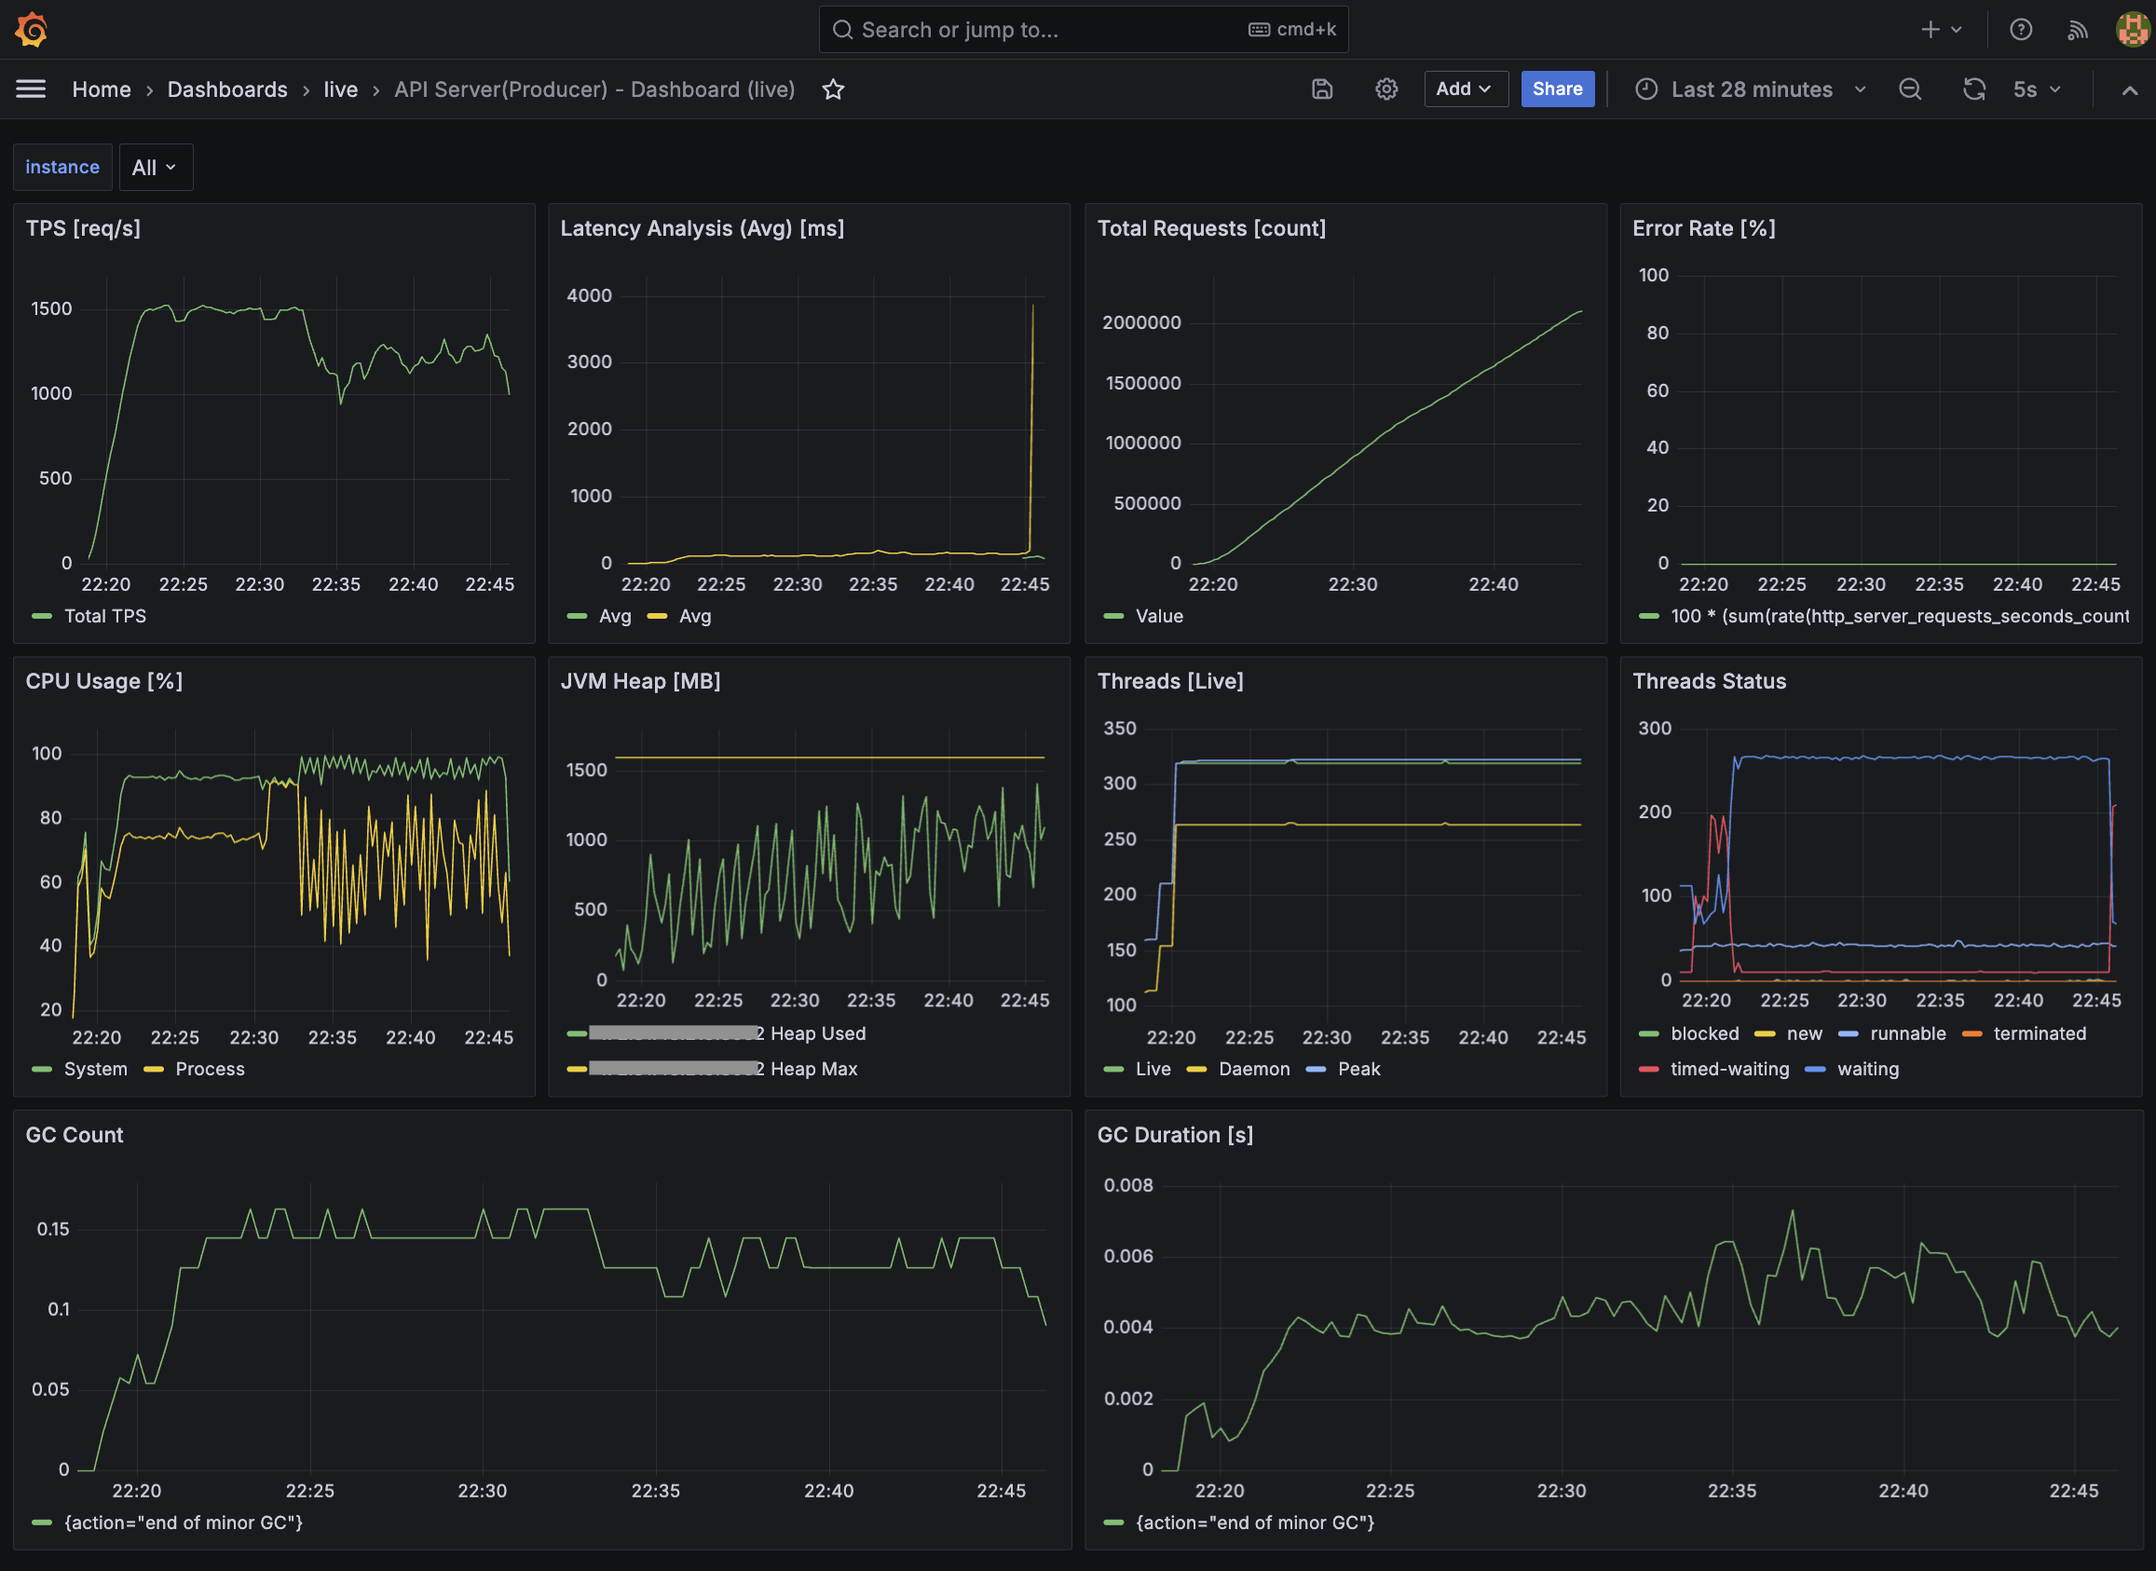
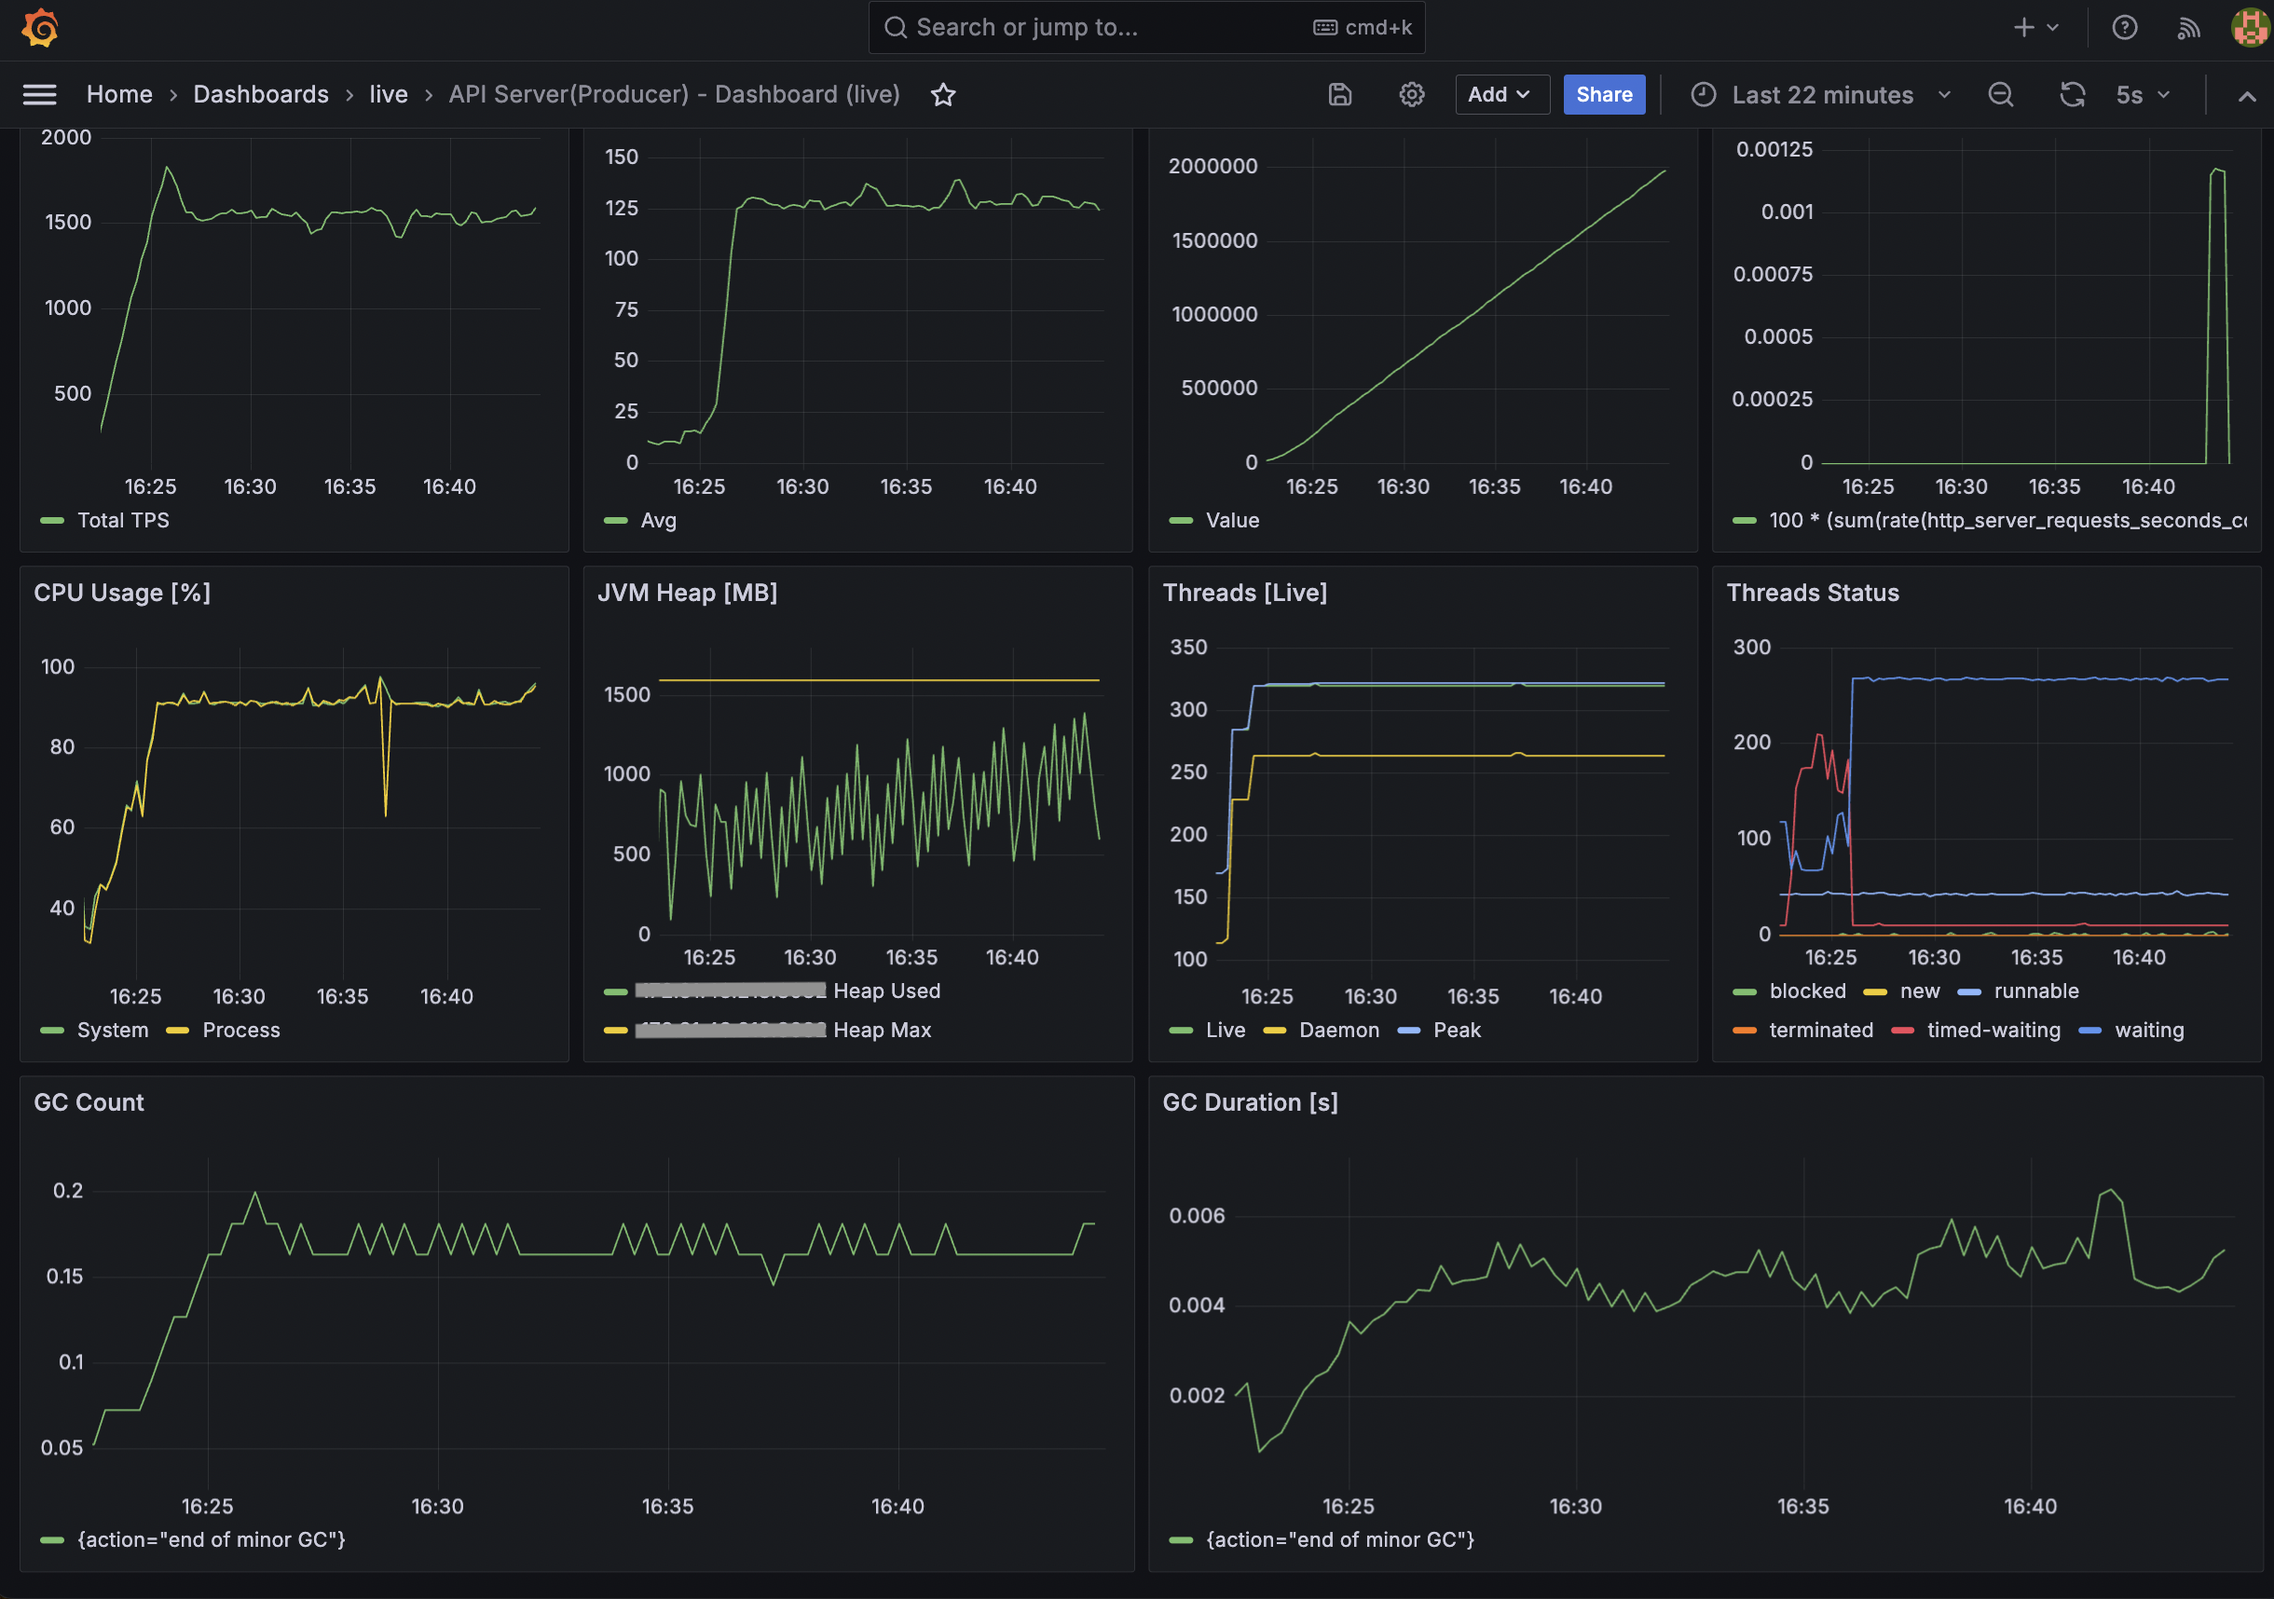
docs: README.md 및 부하 테스트 관련 내용 업데이트

diff --git a/docs/loadtest/coupon-issue-loadtest-result.md b/docs/loadtest/coupon-issue-loadtest-result.md
@@ -1,8 +1,10 @@
 # 쿠폰 발급 시스템 - 부하 테스트 결과 보고서
 
-대규모 트래픽 상황에서 쿠폰 발급 시스템의 안정성과 성능을 검증하고 최적화한 과정을 기술한다.
+대규모 트래픽과 같은 상황에서 쿠폰 발급 시스템의 안정성과 성능을 검증하고 최적화한 과정을 기술한다.
 
-최종 성과: (최대) 1,500 TPS (안정성 최우선 설정 기준)
+최종 성과: (안정성 최우선 설정 기준)
+- (최대) 1,800 TPS
+- (평균) 1,500 TPS
 
 > 핵심 달성
 
@@ -223,6 +225,8 @@
     - connectTimeout: 3000
     - timeout: 1000
 
+![](/docs/loadtest/image/coupon-issue-redis-config.png)
+
 - Rate Limiter 값 수정: 1,300 -> 2,700
 
 - 모니터링 지표 개선
@@ -286,35 +290,55 @@
 
 ![](/docs/loadtest/image/coupon-issue-load-test-k6-result-3-1.png)
 
-> API Server 결과 - 최대 TPS: 1,500
+약 210만 건의 요청 중 실패 없이 100% 성공했다.
+
+설정한 임계치(5s)를 소폭 상회하는 결과는 API 서버의 CPU 포화로 인한 병목임을 확인했다.
+
+> API Server 결과 - 최대 TPS: 1,830, 평균: 1,550
 
 ![](/docs/loadtest/image/coupon-issue-load-test-api-server-3-1.png)
 
-> Consumer Server 결과 - 최대 TPS: 1,500
+> Consumer Server 결과 - 최대 TPS: 1,820, 평균: 1,550
 
-![](/docs/loadtest/image/coupon-issue-load-test-consumer-server-3-1.png)
+![](/docs/loadtest/image/coupon-issue-load-test-consumer-server-3-1-1.png)
 
-API 서버와 비슷한 TPS로 Consumer Lag 증가에 대한 문제는 해결되었다.
+![](/docs/loadtest/image/coupon-issue-load-test-consumer-server-3-1-2.png)
+
+대량의 메시지가 인입되는 순간 일시적인 지연(Lag)이 발생했으나, Consumer 서버의 TPS가 API 서버의 TPS를 따라잡으면서 Consumer Lag이 0에 수렴하는 안정적인 구조를 확인했다.
 
 > Infra Server - Monitoring
 
 ![](/docs/loadtest/image/coupon-issue-load-test-infra-server-monitoring-3-1.png)
 
-> Database Server - Monitoring
+Redis Throughput이 약 20,000 ops/sec를 안정적으로 유지하며 중복 체크 및 선착순 로직의 병목을 해소했다.
 
-![](/docs/loadtest/image/coupon-issue-load-test-db-server-monitoring-3-1-1.png)
+> Database Server(MySQL) - Monitoring
 
-![](/docs/loadtest/image/coupon-issue-load-test-db-server-monitoring-3-1-2.png)
+![](/docs/loadtest/image/coupon-issue-load-test-db-server-monitoring-3-1.png)
+
+HikariCP 활성 연결 수가 설정 범위 내에서 안정적으로 유지되며, 대량의 쿼리(QPS 약 11,000)를 지연 없이 소화하고 있다.
+
+> Infra Server(Redis, Kafka) & Database Server(MySQL) - Docker Monitoring
+
+![](/docs/loadtest/image/coupon-issue-load-test-infra-and-db-server-monitoring-3-1.png)
+
+MySQL의 CPU 사용량이 347.16%(CPU 점유율: 86.79%)를 기록했다. 이는 수직 확장(Scale-up)된 서버의 4-core 자원을 활용하여 쓰기 성능을 극대화하고 있다는 걸 증명했다.
+
+> Monitoring - Prometheus
+
+![](/docs/loadtest/image/coupon-issue-monitoring-promethues.png)
+
+모든 지표 수집 타겟이 UP 상태를 유지하며 데이터 누락 없는 신뢰도 높은 관측 환경을 구축했다.
 
 ### 성과 및 결론
 
 - Kafka 프로듀서 및 컨슈머의 Config 튜닝을 통해 대량 유입 상황에서도 Consumer Lag을 실시간으로 해소하는 구조를 완성했다.
 - 브로커 이중화 및 복제 설정을 통해 성능(2,700 TPS -> 1,500 TPS)을 일부 희생하는 대신, 운영 환경 수준의 데이터 안정성과 고가용성을 확보했다.
-- 현재 시스템의 최대 한계는 API 서버의 CPU 자원 고갈임이 확인되었으나, 컨슈머와 DB 서버는 여전히 80% 미만의 여유 자원을 보유하고 있어 API 서버 확장 시 선형적인 성능 향상이 가능할 것으로 판단된다.
+- 현재 시스템의 최대 한계는 API 서버의 CPU 자원 고갈임이 확인되었으나, 컨슈머와 DB 서버는 여전히 여유 자원을 보유하고 있어 API 서버 확장 시 선형적인 성능 향상이 가능할 것으로 판단된다.
 
 ### 향후 개선 계획
 
 - 현재 CPU 사용률 100%에 도달한 API 서버를 증설하여 부하를 분산하고, p95 응답 시간을 목표치인 3초 이내로 단축할 계획이다.
 - API 서버의 TPS 유입량에 맞춰 컨슈머 서버의 Rate Limiter 값을 유동적으로 조정함으로써, 시스템 전반의 처리 효율을 극대화할 계획이다.
-- 아직 컨슈머 서버와 DB 서버는 여전히 80% 미만의 CPU 여유 자원을 보유하고 있음을 확인했다.
-- 따라서 API 서버 확장 시 전체 시스템의 TPS가 선형적으로 향상될 수 있는 구조적 여력이 충분하다고 판단한다.
+- 아직 컨슈머 서버는 약 20~30%, DB 서버는 약 13%의 CPU 가용 리소스를 보유하고 있음을 확인했다.
+- 따라서 API 서버 확장 시 전체 시스템의 TPS가 임계치까지 선형적으로 향상될 수 있는 구조적 여력이 충분하다고 판단한다.

diff --git a/README.md b/README.md
@@ -26,6 +26,8 @@
 
 ## Blog Posts
 
+* 부하 테스트 및 성능 개선: [부하 테스트를 통한 아키텍처 점진적 개선기](https://github.com/devFancy/springboot-coupon-system/blob/main/docs/loadtest/coupon-issue-loadtest-result.md)
+
 * 에러 추적: [Spring Boot에서 Sentry를 이용한 에러 추적 시스템 개선하기](https://devfancy.github.io/spring-boot-sentry/)
 
 * 분산 추적: [MDC와 GlobalTraceId를 활용한 분산 추적](https://devfancy.github.io/SpringBoot-Distributed-Tracing-With-MDC/)
